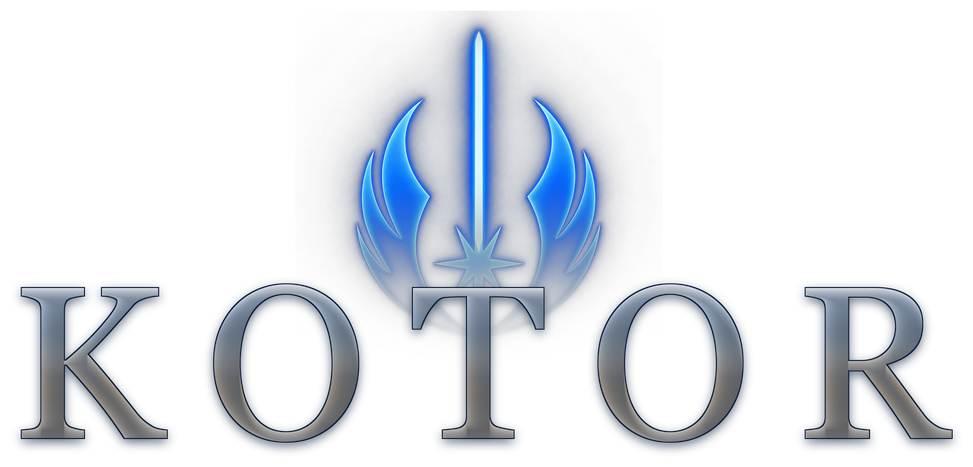
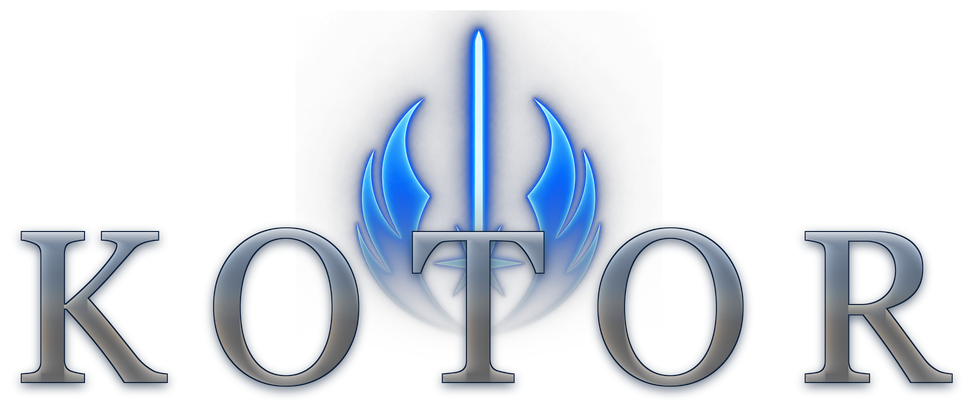
Lower the crest by 15% of its own height
WING_BOTTOM_AT 0.25 -> 0.62 cap below the cap line. The crest is 2.45 caps tall,
so each 0.245 moves it 10% of its own height; +0.37 is the requested 15%.

The fade is anchored to the wing line rather than the cap line, so it travelled
with the crest and needed no retuning: measured on the output, the veil still
runs 254 at 20% down to 209 at 80% and 102 at the bottom edge.

diff --git a/tools/build_brand_image.py b/tools/build_brand_image.py
@@ -56,10 +56,12 @@ CREST_WIDTH_RATIO = 2.45      # measured: 142px wide at 58px cap
 # the saber runs on down THROUGH the letters to the baseline (+0.98 cap), showing
 # 6-14 bright pixels per row in the gaps between glyphs. So the artwork's bottom
 # sits on the baseline and the veil dims it as it passes behind the text.
-WING_BOTTOM_AT = 0.25         # where the wings' lower tips land, in caps below the cap line.
+WING_BOTTOM_AT = 0.62         # where the wings' lower tips land, in caps below the cap line.
                               # 0.00 puts them exactly on it, which is where the reference has
-                              # them; a little lower lets the tips dip behind the letters and
-                              # dim there, which is what was asked for
+                              # them. The crest is 2.45 caps tall, so each 0.245 here moves it
+                              # 10% of its own height; 0.62 sits it 15% lower than the 0.25 that
+                              # first dipped the tips behind the letters. The fade is anchored to
+                              # this line, so it travels with it.
 # The fade must END at the crest's own bottom edge, or the artwork runs out while
 # the veil is still part-way and there is no visible fade at all. That was the bug:
 # FADE_TO sat 1.00 cap below the wing line, but the crest only reaches 0.36 cap
